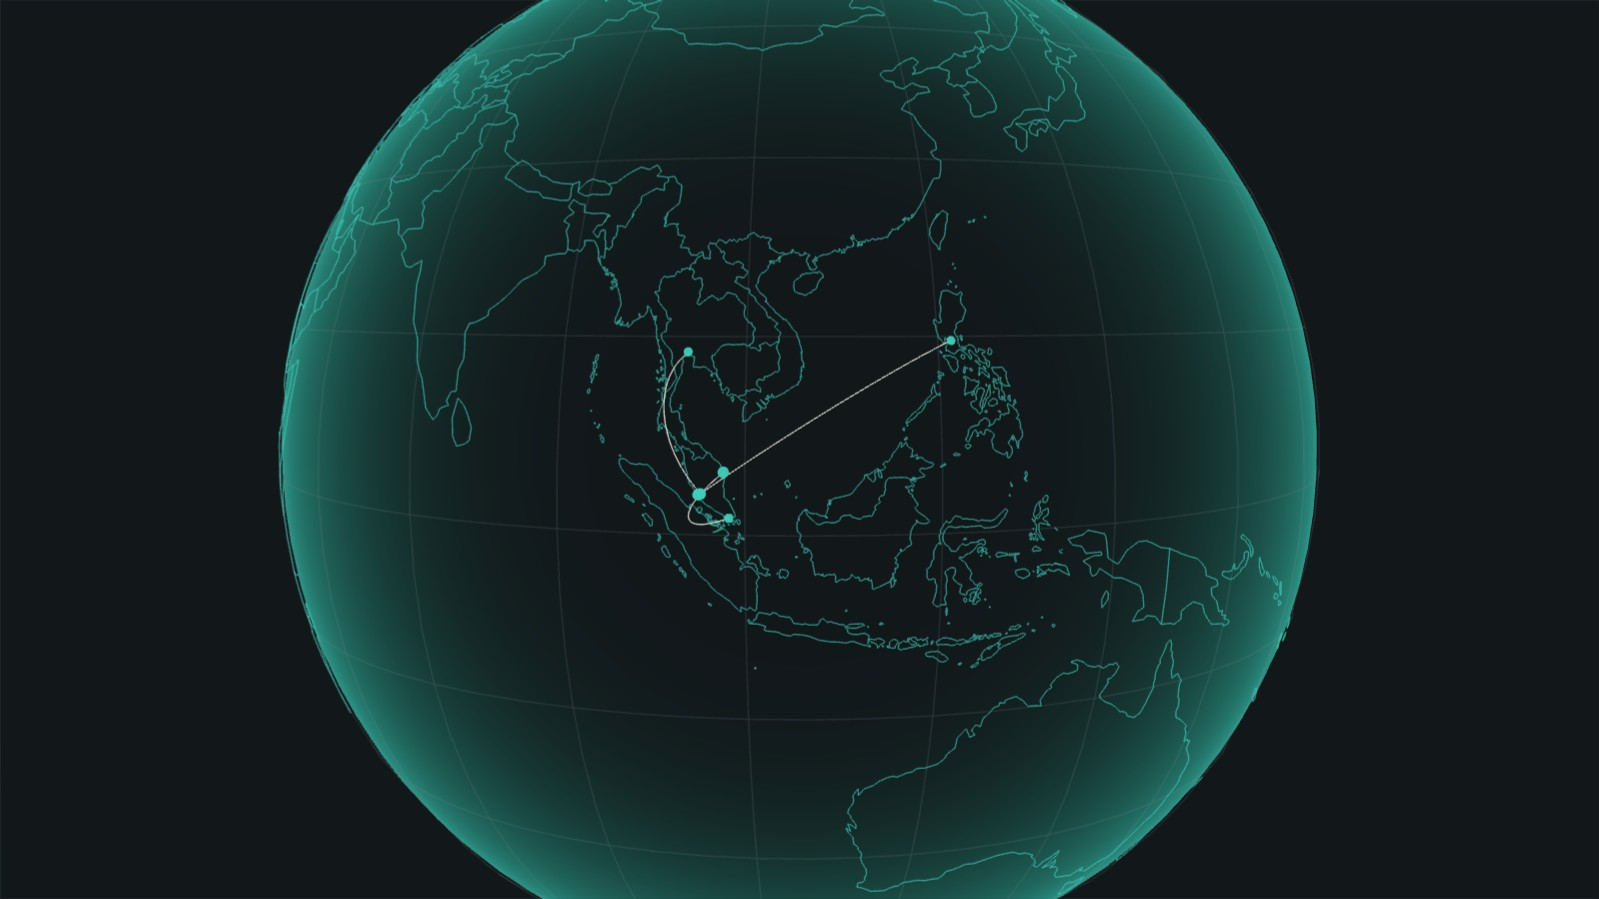
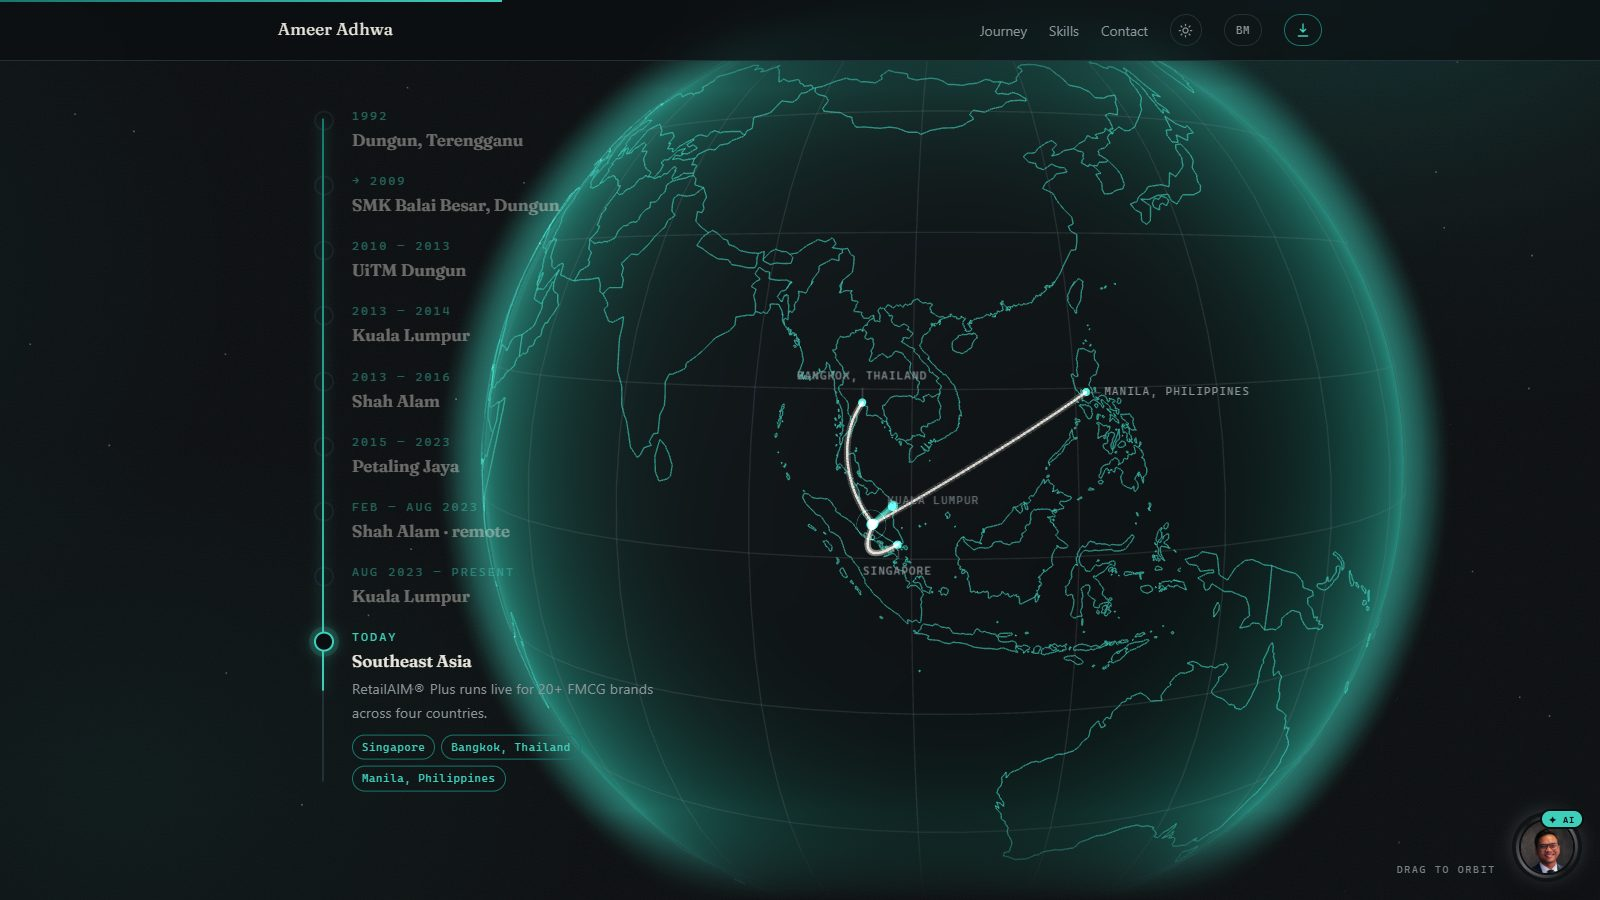
chore(globe): recapture posters for the Horizon globe, update docs, bump ?v= to 2026-09-05b

diff --git a/index.html b/index.html
@@ -17,7 +17,7 @@
   <!-- ?v= is the cache-busting tag. Bump it on every deploy that changes CSS or
        JS; chatbot.js reads this same tag off its own src and forwards it to the
        knowledge base and profile fetches, so this is the only place to edit. -->
-  <link rel="stylesheet" href="assets/css/style.css?v=2026-09-05a">
+  <link rel="stylesheet" href="assets/css/style.css?v=2026-09-05b">
   <script>
     document.documentElement.classList.replace('no-js', 'js');
     /* apply saved theme/language before first paint to avoid flashes */
@@ -764,14 +764,14 @@
     </form>
   </section>
 
-  <script src="assets/js/i18n.js?v=2026-09-05a" defer></script>
-  <script src="assets/js/main.js?v=2026-09-05a" defer></script>
-  <script src="assets/js/aimeer-device.js?v=2026-09-05a" defer></script>
-  <script src="assets/js/jd-extractor.js?v=2026-09-05a" defer></script>
-  <script src="assets/js/jd-matcher.js?v=2026-09-05a" defer></script>
-  <script src="assets/js/jd-reasoning.js?v=2026-09-05a" defer></script>
-  <script src="assets/js/chatbot.js?v=2026-09-05a" defer></script>
-  <script src="assets/js/route-globe-core.js?v=2026-09-05a" defer></script>
-  <script src="assets/js/route-globe.js?v=2026-09-05a" defer></script>
+  <script src="assets/js/i18n.js?v=2026-09-05b" defer></script>
+  <script src="assets/js/main.js?v=2026-09-05b" defer></script>
+  <script src="assets/js/aimeer-device.js?v=2026-09-05b" defer></script>
+  <script src="assets/js/jd-extractor.js?v=2026-09-05b" defer></script>
+  <script src="assets/js/jd-matcher.js?v=2026-09-05b" defer></script>
+  <script src="assets/js/jd-reasoning.js?v=2026-09-05b" defer></script>
+  <script src="assets/js/chatbot.js?v=2026-09-05b" defer></script>
+  <script src="assets/js/route-globe-core.js?v=2026-09-05b" defer></script>
+  <script src="assets/js/route-globe.js?v=2026-09-05b" defer></script>
 </body>
 </html>

diff --git a/CLAUDE.md b/CLAUDE.md
@@ -81,7 +81,7 @@ asset lacks one, and names the offending file. While iterating locally, tick
 | `assets/js/route-globe-core.js` | Route globe, pure half: sphere geometry, camera keyframes/scrub, coastline decoding, capability gate, load state machine. UMD, tested by plain `require()` |
 | `assets/js/route-globe.js` | Route globe, DOM/WebGL adapter: reads the stops `<ol>`, gates, lazy-imports vendored three.js, owns the canvas/scroll/drag/theme wiring |
 | `assets/data/route-globe-coastlines.json` | Generated country outlines for the globe (never hand-edited — see Regenerating the globe coastlines) |
-| `assets/vendor/three/` | Vendored three.js r185 (`three.module.min.js` + `three.core.min.js`, kept side by side) |
+| `assets/vendor/three/` | Vendored three.js r185 (`three.module.min.js` + `three.core.min.js`, kept side by side) and its `lines/` fat-line addon, whose bare `three` import the `<head>` import map resolves |
 | `assets/data/aimeer-kb.txt` | Chatbot knowledge base — fetched by *both* the browser and the Worker |
 | `assets/data/aimeer-profile.json` | Recruiter evidence registry (`recruiterEvidence`, `privacyExclusions`) — the only allowlist of evidence the JD matcher's cloud reasoning may cite |
 | `cloud/aimeer-worker.js` | Cloudflare Worker relay — chat/summary/jd-explanation/jd-reasoning/jd-scoring/version modes (deployed manually, see below) |
@@ -213,27 +213,43 @@ Hard-coded facts also live in the `TOPICS` answers in `chatbot.js` — grep ther
 
 ### Route globe (three.js)
 
-The section `#route` between the stats strip and the timeline is a scroll-scrubbed
-line-art globe. Its **data is the markup**: each `<li data-lat data-lng data-kind data-zoom>`
-in `#route-stops` is a camera keyframe in DOM order (`place` | `remote` | `region`) and the
-nested `data-kind="footprint"` items are the reveal's arc targets. Town-level coordinates
-only — the profile's privacy exclusions rule out anything finer, and "Sura Gate" stays off
-the map. Adding a stop is an HTML + `i18n.js` edit; `tests/route-globe-section.test.js`
-checks ranges, kinds, zoom and MS coverage.
+The section `#route` between the stats strip and the timeline is a scroll-scrubbed globe
+that also carries the journey's only heading (`#journey` has none). Its **data is the
+markup**: each `<li data-lat data-lng data-kind data-zoom [data-label-dir]>` in
+`#route-stops` is a camera keyframe in DOM order (`place` | `remote` | `region`) and the
+nested `data-kind="footprint"` items are the reveal's arc targets. `data-label-dir`
+(`n|ne|e|se|s|sw|w|nw`) fans the projected DOM label out from its marker; the three Klang
+Valley places must use three different directions or the labels stack. Town-level
+coordinates only — the profile's privacy exclusions rule out anything finer, and "Sura
+Gate" stays off the map. Adding a stop is an HTML + `i18n.js` edit;
+`tests/route-globe-section.test.js` checks ranges, kinds, zoom, directions and MS coverage.
+
+**Zooms stay between 1.5 and 3.2, and the limb is always in frame.** `core.framing()`
+picks the FOV and a view offset per distance, aspect and layout, and
+`core.limbInFrame()` is the invariant the core test checks on a grid. There is no
+street-level zoom on purpose: the marker, pulse, label and rail caption identify the
+stop; the sphere identifies the medium. Don't lower `DEFAULT_ZOOM` or a `data-zoom`
+below 1.5 without re-running that test.
 
 `route-globe.js` upgrades the section in place only when `evaluateGate` passes (no
 `prefers-reduced-motion`, no `saveData`, WebGL2 present) and the section comes within
-600px of the viewport; then it dynamically imports the vendored three.js and fetches the
-coastline JSON with the same `?v=` tag. Everything else — no JS, reduced motion, no WebGL2,
-a failed load, a lost context — leaves the poster (`assets/img/route-globe-{dark,light}.jpg`)
-and the plain stops list, and writes the reason to `section.dataset.globe`. Read that
-attribute before guessing why the globe is static. Rendering is on demand: frames draw on
-scroll, drag and theme change, plus a 30 fps breathing sway only while the stage is on
-screen. Colours are read from the palette custom properties, so a theme change needs no
-globe code.
+600px of the viewport; then it dynamically imports the vendored three.js, the five
+`lines/` addon modules and the coastline JSON (with the same `?v=` tag). The addon is
+optional: if it fails the globe renders with 1px lines and `section.dataset.globe` reads
+`live-thin`. Everything else — no JS, reduced motion, no WebGL2, a failed load, a lost
+context — leaves the poster (`assets/img/route-globe-{dark,light}.jpg`) and the plain
+stops list, and writes the reason to `section.dataset.globe`. Read that attribute before
+guessing why the globe is static. Rendering is on demand: frames draw on scroll, drag and
+theme change, plus a ~30 fps loop (breathing sway, marker pulse, travelling light) only
+while the stage is on screen. Colours are read from the palette custom properties, so a
+theme change needs no globe code; the light theme swaps additive blending for normal and
+hides the stars.
 
-The posters are screenshots of the finished scene at the final reveal (dark and light,
-1600×900). Recapture them when the route or the palette changes.
+The stage is full-bleed and transparent (the page atmosphere shows through) with a CSS
+mask fading its top and bottom edges; there is deliberately no border, radius, background
+or shadow — that box is what made the first version read as an embedded video. The
+posters are node screenshots of the finished scene at the final reveal (dark and light,
+1600×900). Recapture them when the route, the framing or the palette changes.
 
 #### Regenerating the globe coastlines
 

diff --git a/docs/superpowers/specs/2026-07-24-portfolio-site-design.md b/docs/superpowers/specs/2026-07-24-portfolio-site-design.md
@@ -58,13 +58,18 @@ If regenerating the site from scratch, feed this whole document to the builder.
    multi-tenant SaaS across Southeast Asia"), contact links (email, LinkedIn, GitHub,
    location), Download Resume button
 2. **Stats strip** — 12+ years · 25+ production systems · 20+ FMCG brands · 4 countries
-2b. **Route globe** (added 2026-09-05) — a scroll-scrubbed three.js line-art globe that flies
+2b. **Route globe** (added 2026-09-05, "Horizon" redesign 2026-09-05 — see
+   `2026-09-05-route-globe-horizon-design.md`) — a scroll-scrubbed three.js globe that flies
    the life route town by town: born 1992 Dungun → SMK Balai Besar → UiTM Dungun → Kuala
    Lumpur (MyEMRO) → Shah Alam (UiTM degree) → Petaling Jaya (TRM Nett) → Shah Alam, remote
    (NCS) → Kuala Lumpur (RetailAIM) → pull-back reveal with arcs to Singapore, Bangkok and
-   Manila for the RetailAIM Plus footprint. Town-level coordinates only. Renders as a poster
-   plus a plain stops list without JS/WebGL2 or under `prefers-reduced-motion`. three.js is
-   vendored (`assets/vendor/three/`), the only heavy library on the page, and loads lazily.
+   Manila for the RetailAIM Plus footprint. Full-bleed and borderless over the page
+   atmosphere, lit sphere with a fresnel atmosphere shell, the limb in frame at every stop,
+   a caption rail on the timeline's spine line, and one heading shared with the timeline
+   (the timeline itself carries no section head). Town-level coordinates only. Renders as a
+   poster plus a plain stops list without JS/WebGL2 or under `prefers-reduced-motion`.
+   three.js is vendored (`assets/vendor/three/`, plus its `lines/` addon resolved through
+   an import map), the only heavy library on the page, and loads lazily.
 3. **Timeline** — ascending nodes:
    - 2010–2013 Diploma CS, UiTM Dungun (CGPA 3.03, FYP: Bus Ticketing System, PHP)
    - 2013–2014 MyEMRO — Ruby on Rails aircraft MRO scheduling
